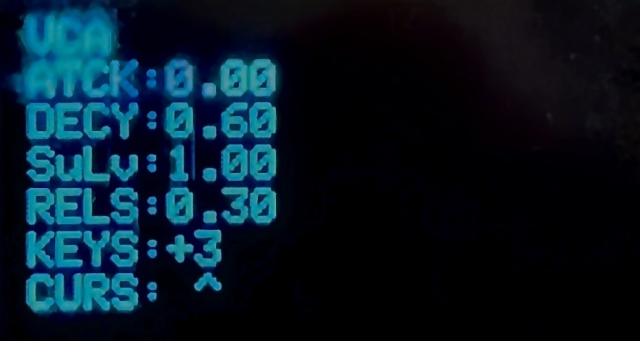
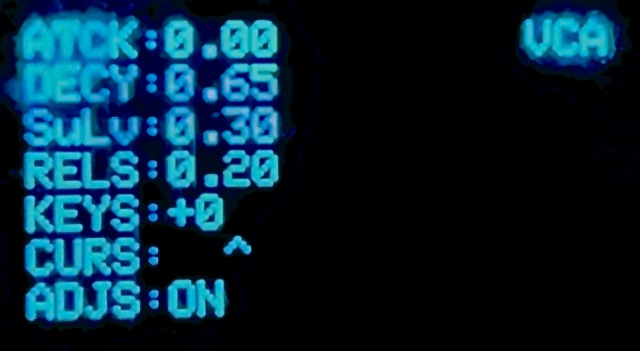
Doc

diff --git a/Doc/UsersManual_jp.md b/Doc/UsersManual_jp.md
@@ -17,6 +17,7 @@
 |VCO|発音|12ボイス|
 ||VCO制御|LFOトレモロ|
 ||VCO制御|LFOビブラート|
+||MIDI IN|ピッチベンド|
 |フィルター|フィルター種別|LPF, HPF, BPF, NOTCH|
 ||フィルター制御|LFOモジュレーション|
 |||エンベロープ|
@@ -169,15 +170,15 @@
 ### 6-1. OLED画面
 ![SOUND MAIN](https://github.com/ohira-s/PicoFM_Synth/blob/main/Doc/images/01_sound_main.jpg)  
 
-1) BANK:0  
+### 6-2. BANK:0  
 
 	音色のバンク番号が表示されています。バンクは0〜9まであります。  
 	
-2) SOUND:001 Piano  
+### 6-3. SOUND:001 Grand Piano  
 
 	音色番号と音色名が表示されています。各バンクに音色番号は000〜999まであります。  
 	
-3) ALGO:1:<1>+2  
+### 6-4. ALGO:1:<1>+2 (RT4) 
 
 	FM変調のアルゴリズムが表示されます。  
 	「<1>+2」のような表記は4つのオペレーターの接続方法を数式のような形式で表しています。  
@@ -204,22 +205,21 @@
 |9|<1>\*(2\*3+4)|
 |10|<1>\*(2+3+4)|
 	
-4) VOLM:5  
+### 6-5. VOLM:5 (RT5) 
 
 	マスターボリュームの値を1〜9の範囲で変更できます。    
 	
-5) UNIS:1  
+### 6-6. UNIS:1 (RT6) 
 
 	ユニゾン発音を0〜9の範囲で変更できます。  
 	0のときは非ユニゾンモードで1つの音程を1つの音で発音します。    
 	1以上のときは元の音程に加えて、この値の周波数(Hz)だけずらした音も同時発音するユニゾンモードになります。これによって音色の重厚さが増すことがあります。  
 	ユニゾンモードでは最大同時発音数が半分の6になります。  
-	
-6) ADJS:ON  
 
-	FMアルゴリズムのオーディオ出力段にあるオペレーター群と加算合成のオシレーター群の出力レベルの合計は255にすることが基本です。しかし、音作りの過程で複数の出力レベルの配分を確定することは困難です。  
-	オーディオ出力レベルの自動調整ADJSをONにすると、オーディオ出力段にある出力レベルの合計が内部的に255になるように自動計算します。見かけの値は変化しません。  
-	ADJSをOFFにすると自動調整は働かず、オーディオ出力の合計が255を超えた場合は、上限を超えた波形はクリッピングされます。一般的に音が歪みます。意図的に音の歪みを作り出したい場合はADJSをOFFにして下さい。  
+### 6-7. PBND: 2 (RT7) 
+
+	MIDI INでピッチベンドを受信したときにピッチベンドする音程を指定します。PBENDが2でC4を発音しているとき、高音方向へのピッチベンドを受信するとD4までピッチベンドします。低音側だとA3#までピッチベンドします。  
+	ピッチベンドさせたくないときはPBENDを0にします。  
 
 ## 7. ALGORITHM
 　現在のFM変調アルゴリズムをダイアグラムで表示します。この画面は表示のみで、操作はありません。  
@@ -618,32 +618,38 @@
 ### 17-1. OLED画面
 ![SOUND MAIN](https://github.com/ohira-s/PicoFM_Synth/blob/main/Doc/images/10_vca.jpg) 
 
-### 17-2. ATCK (RT2)  
+### 17-2. ATCK (RT1)  
 
 	エンベロープのアタック秒数を設定します。  
 	
-### 17-3. DECY (RT3)  
+### 17-3. DECY (RT2)  
 
 	エンベロープのディケイ秒数を設定します。  
 	
-### 17-4. SuLv (RT4)  
+### 17-4. SuLv (RT3)  
 
 	エンベロープのサスティーンレベルを0.0〜1.0で設定します。  
 
-### 17-5. RELS (RT5)  
+### 17-5. RELS (RT4)  
 
 	エンベロープのリリース秒数を設定します。  
 
-### 17-6. KEYS (RT6)  
+### 17-6. KEYS (RT5)  
 
 	キー・スケール・センシティビティーは音程に従って音量を変化させます。値は-9から+9です。  
 	0ではキー・スケール・センシティビティーは無効で、全音程でADSRとベロシティーの値に従います。  
 	正の値にすると、音程が高くなるにつれてアタックとサステインのレベルが両方とも大きくなります。  
 	負の値にすると、音程が高くなるにつれてアタックとサステインのレベルが両方とも小さくなります。  
 
-### 17-7. CURS (RT7)  
+### 17-7. CURS (RT6)  
 
 	増減する実数値の桁位置を設定します。  
+
+### 17-8. ADJS (RT7)  
+
+	FMアルゴリズムのオーディオ出力段にあるオペレーター群と加算合成のオシレーター群の出力レベルの合計は255にすることが基本です。しかし、音作りの過程で複数の出力レベルの配分を確定することは困難です。  
+	オーディオ出力レベルの自動調整ADJSをONにすると、オーディオ出力段にある出力レベルの合計が内部的に255になるように自動計算します。見かけの値は変化しません。  
+	ADJSをOFFにすると自動調整は働かず、オーディオ出力の合計が255を超えた場合は、上限を超えた波形はクリッピングされます。一般的に音が歪みます。意図的に音の歪みを作り出したい場合はADJSをOFFにして下さい。  
 
 
 ## 18. SAVE

diff --git a/Doc/UsersManual.md b/Doc/UsersManual.md
@@ -17,6 +17,7 @@ Pico FM Synthesizer (PiFM+S) is a synthesizer sound module working as a USB host
 |VCO|Note-ON/OFF|12 voices polyphonic.|
 ||LFO|Tremolo|
 |||Vibrate|
+||MIDI IN|Pitch Bend|
 |VCF|Filer types|LPF, HPF, BPF, NOTCH|
 ||LFO|Frequency and/or Q-factor modulation.|
 ||Envelope|Frequency and/or Q-factor modulation.|
@@ -166,15 +167,15 @@ You can see the current sound information and edit the FM algorithm.
 ### 6-1. OLED Display
 ![SOUND MAIN](https://github.com/ohira-s/PicoFM_Synth/blob/main/Doc/images/01_sound_main.jpg)  
 
-1) BANK:0  
+### 6-2. BANK:0  
 
 PiFM+S has 10 sound data banks from 0 to 9.  You can see the current sound bank number.  
 	
-2) SOUND:001 Piano  
+### 6-3. SOUND:001 Grand Piano  
 
 Each sound bank can be saved 1000 sounds from 000 to 999.  You can see the current sound number and its instrument name.  
 	
-3) ALGO:1:<1>+2  
+### 6-4. ALGO:1:<1>+2 (RT4) 
 
 You can see the FM algorithm of the current sound.  
 On this page, FM algorithms are shown with something like an expression.  For istance, '<1>\+2' or '<1>\*2'.  
@@ -201,22 +202,22 @@ PiFM+S has 11 algorithms.
 |9|<1>\*(2\*3+4)|
 |10|<1>\*(2+3+4)|
 	
-4) VOLM:5  
+### 6-5. VOLM:5 (RT5) 
 
 You can change the master volume from 1 to 9.  
 	
-5) UNIS:1  
+### 6-6. UNIS:1 (RT6) 
 
 You can change the unison mode, value is from 0 to 9.  
 0 is for Not-Unison mode.  PiFM+S plays one tone for a note.  
 In case of from 1 to 9, PiFM+S plays an original tone with another tone.  The other tone has a frequency adding UNIS(Hz) value to the original tone.  
 PiFM+S can play 6 notes maximum in the unison mode.    
-	
-6) ADJS:ON  
 
-Sum of audio output levels of both the FM Synthesis and the Additive Synthesis should be less or equal than 255.  However it is so hard to keep this rule during making sound.  
-When you set ADJS (ADJuSt output levels) to 'ON', PiFM+S will automatically adjust the sum of audio output levels to 255 in keeping each level ratio.  This is the internal process, so the output levels you entered are never changed.  
-In case of ADJS OFF, wave form exceeding the maximum output level will be clipped.  Normally you will get distorted sound.  
+### 6-7. PBND: 2 (RT7) 
+
+You can set a PITCH BEND pitch.  PiFM+S will change notes pitches playing when it receives the PITCH BEND event via MIDI-IN.  
+If PBND is 2 and PiFM+S plays a C4 note, PiFM+S changes the pitch from C4 to D4 when it receives the PITCH BEND + event.  And changes from C4 to A3# when it receives the PITCH BEND - event.  
+Set 0 to PBEND if you don't need the PITCH BEND.  
 
 
 ## 7. ALGORITHM
@@ -587,30 +588,36 @@ You can edit the VCA envelope for the audio output level.
 ### 17-1. OLED Display
 ![SOUND MAIN](https://github.com/ohira-s/PicoFM_Synth/blob/main/Doc/images/10_vca.jpg) 
 
-### 17-2. ATCK (RT2)  
+### 17-2. ATCK (RT1)  
 
 Attack time in seconds.  
 	
-### 17-3. DECY (RT3)  
+### 17-3. DECY (RT2)  
 
 Decay time in seconds.  
 	
-### 17-4. SuLv (RT4)  
+### 17-4. SuLv (RT33)  
 
 Sustain level from 0.0 to 1.0.  
 
-### 17-5. RELS (RT5)  
+### 17-5. RELS (RT4)  
 
 Release time in seconds.  
 
-### 17-6. KEYS (RT6)  
+### 17-6. KEYS (RT5)  
 
 Key scale sensitivity from -9 to +9.  
 0 for no key sensitivity.  Positive value makes both attack and sustain levels larger along getting key note higher.  Negative value makes both of them smaller along getting key note higher.  
 
-### 17-7. CURS (RT7)  
+### 17-7. CURS (RT6)  
 
 Move cursor to edit position.  
+
+### 17-8. ADJS (RT7) 
+
+Sum of audio output levels of both the FM Synthesis and the Additive Synthesis should be less or equal than 255.  However it is so hard to keep this rule during making sound.  
+When you set ADJS (ADJuSt output levels) to 'ON', PiFM+S will automatically adjust the sum of audio output levels to 255 in keeping each level ratio.  This is the internal process, so the output levels you entered are never changed.  
+In case of ADJS OFF, wave form exceeding the maximum output level will be clipped.  Normally you will get distorted sound.  
 
 
 ## 18. SAVE

diff --git a/README_jp.md b/README_jp.md
@@ -38,6 +38,7 @@ FM変調のプログラムはオリジナルで、4オペレーター、11アル
 |VCO|発音|12ボイス|
 ||VCO制御|LFOトレモロ|
 ||VCO制御|LFOビブラート|
+||MIDI IN|ピッチベンド|
 |フィルター|フィルター種別|LPF, HPF, BPF, NOTCH|
 ||フィルター制御|LFOモジュレーション|
 |||エンベロープ|

diff --git a/README.md b/README.md
@@ -37,6 +37,7 @@ Specifications are as below.
 |VCO|Note-ON/OFF|12 voices polyphonic.|
 ||LFO|Tremolo|
 |||Vibrate|
+||MIDI IN|Pitch Bend|
 |VCF|Filer types|LPF, HPF, BPF, NOTCH|
 ||LFO|Frequency and/or Q-factor modulation.|
 ||Envelope|Frequency and/or Q-factor modulation.|
